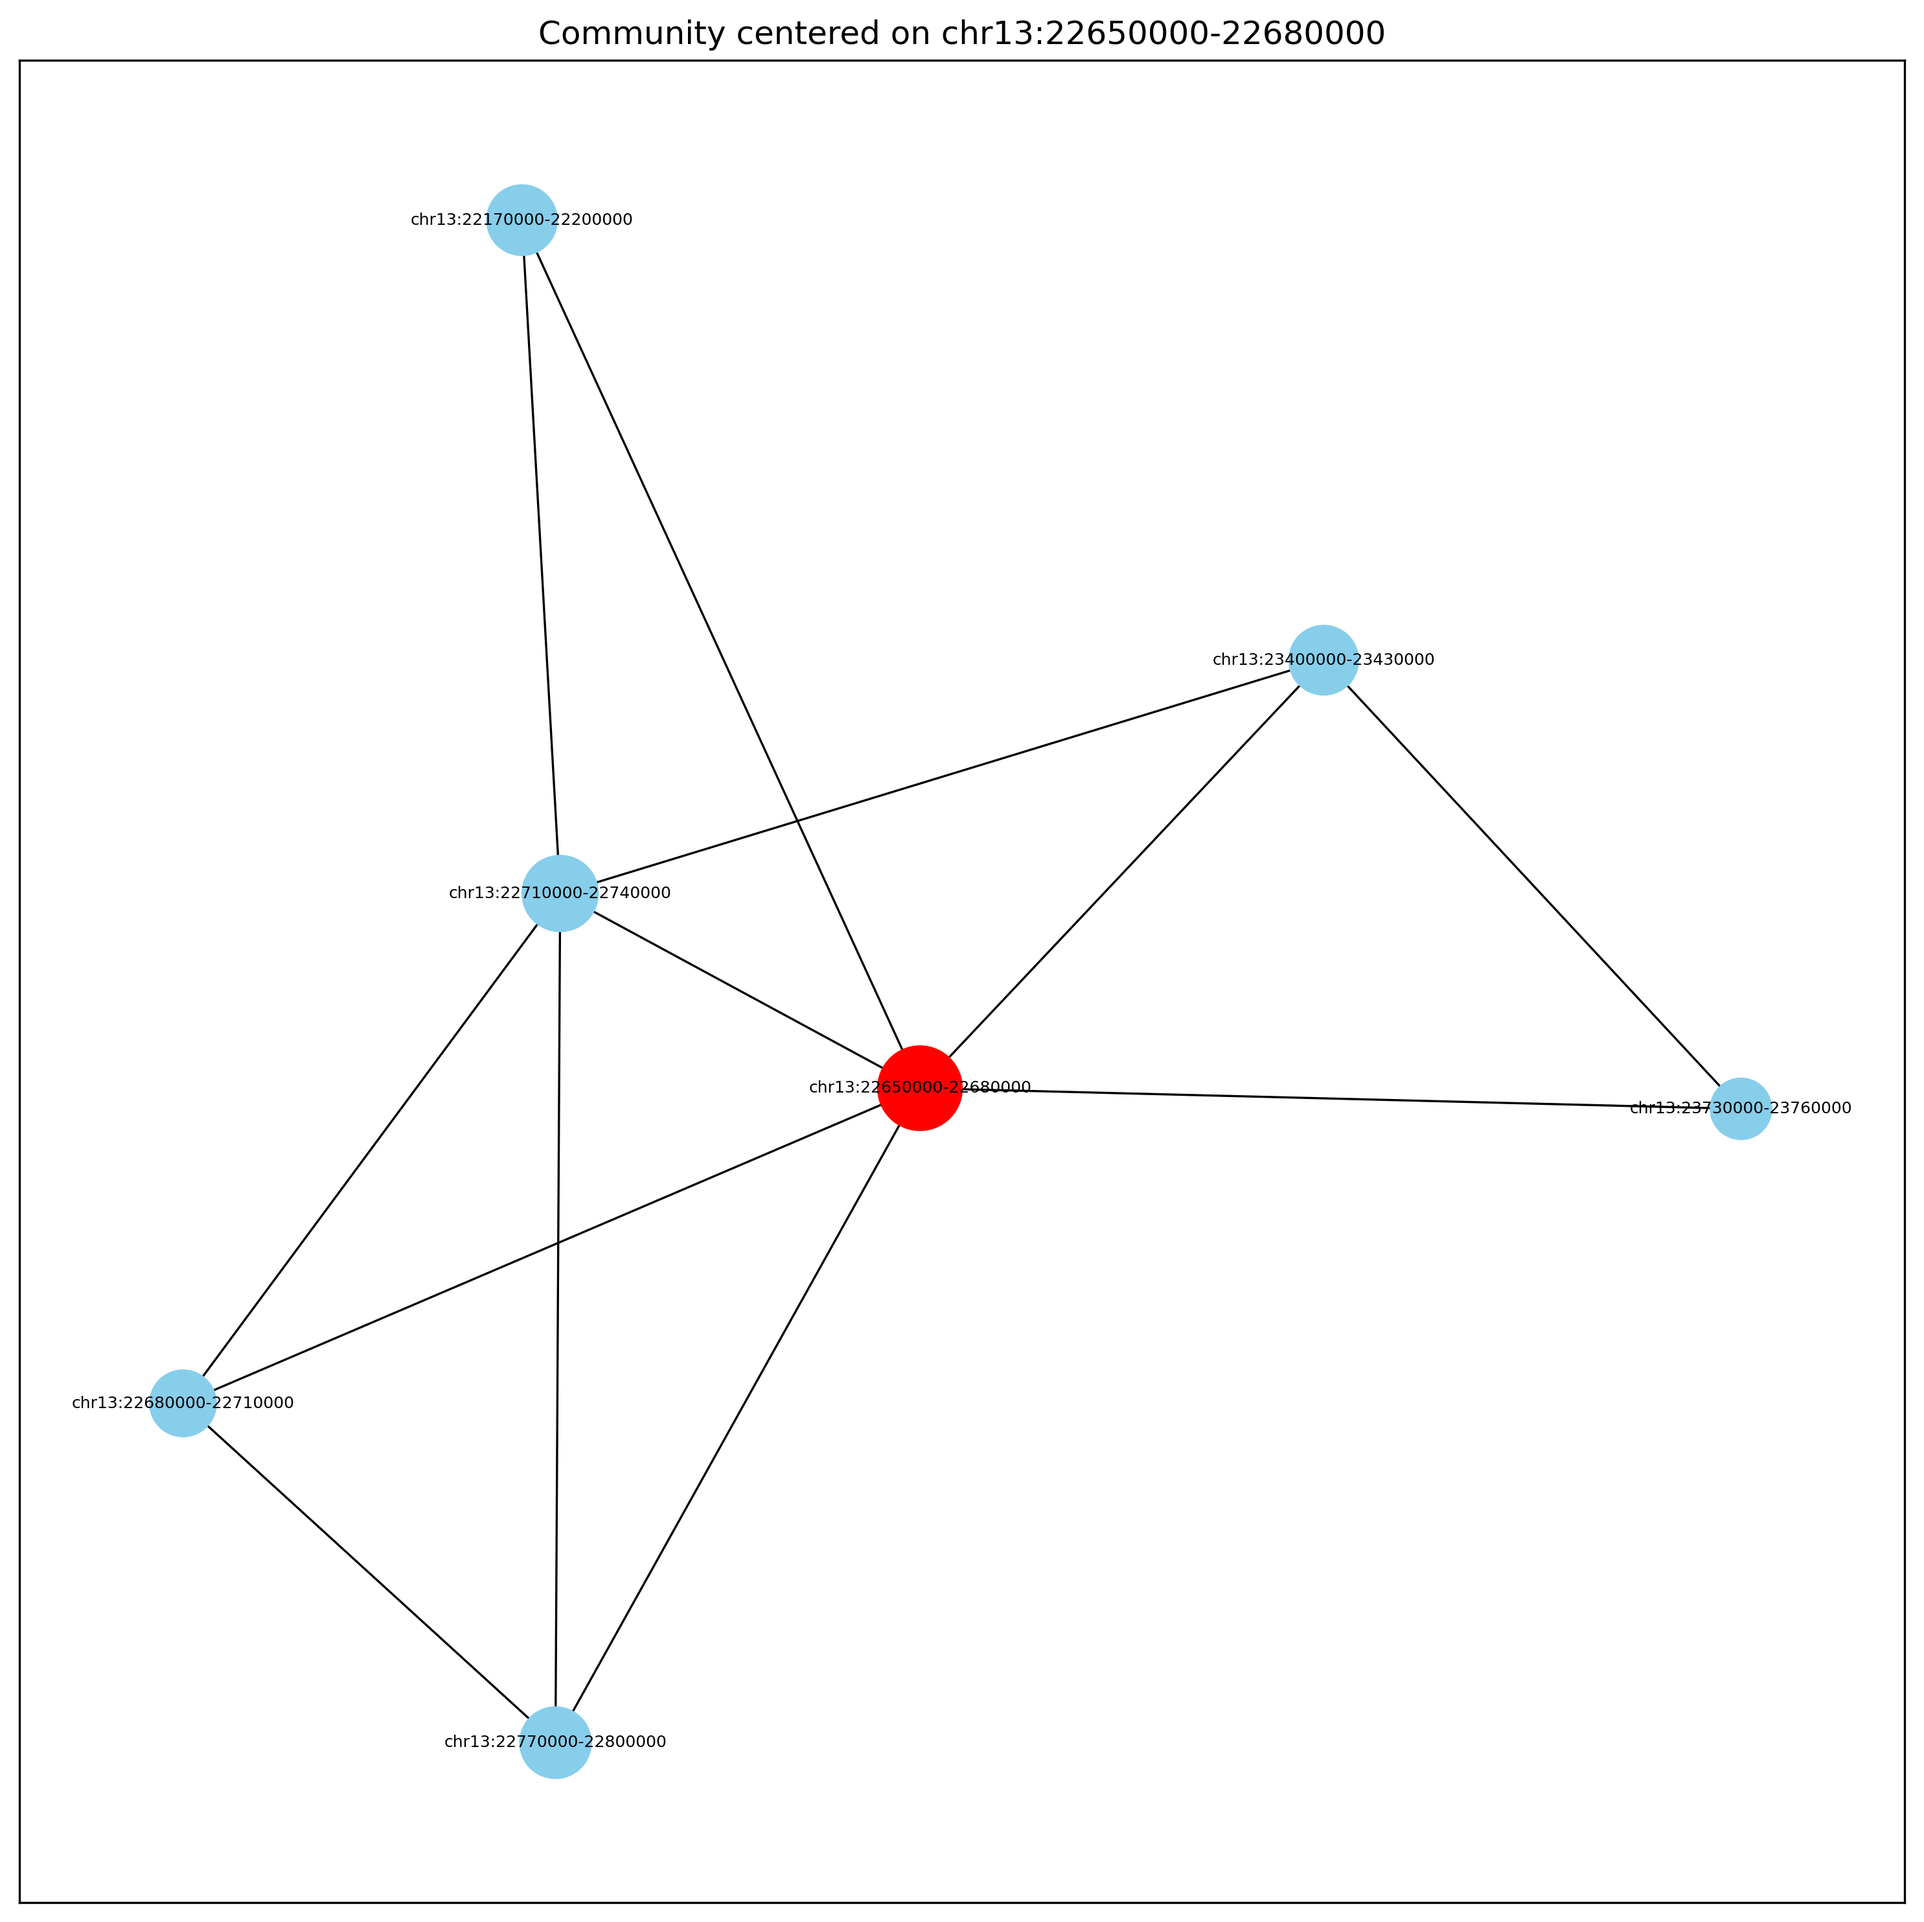
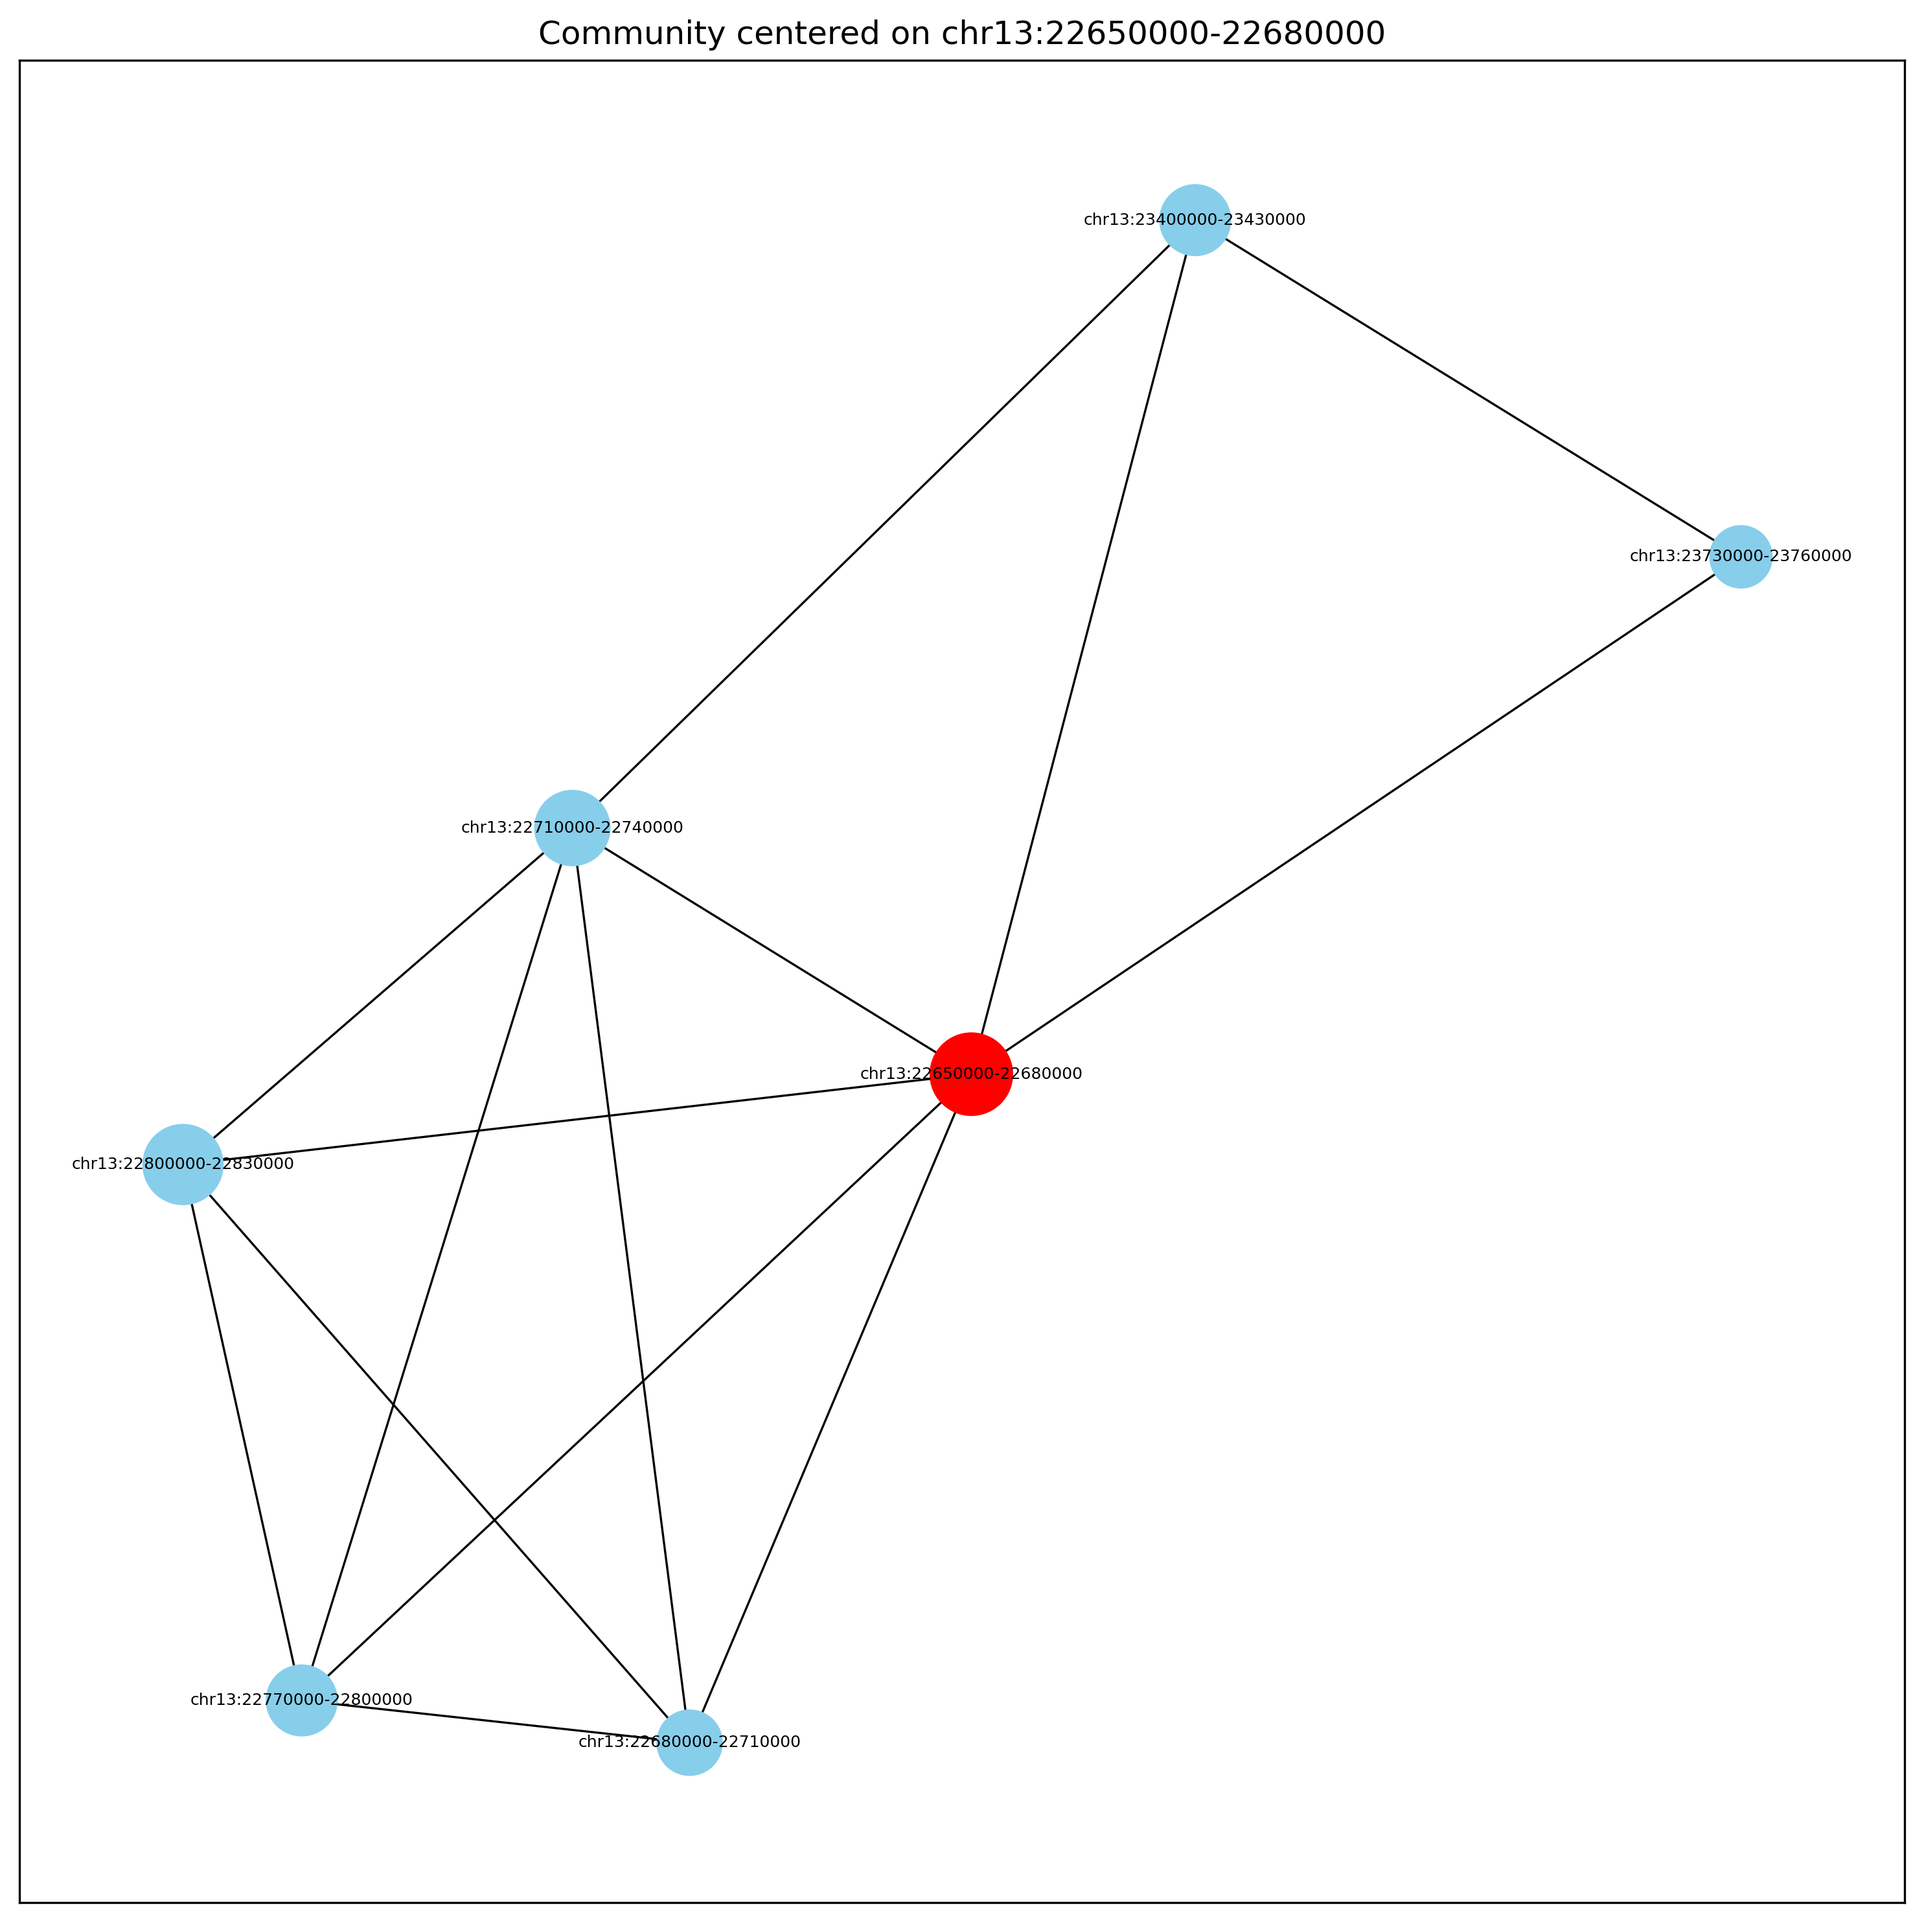
fin

diff --git a/activities/functions.py b/activities/functions.py
@@ -151,13 +151,13 @@ def sample_valid_centers(norm_dist_matrix: pd.DataFrame, k: int = 3, max_tries: 
 def load_and_filter(path):
     df = pd.read_csv(path, sep="\t")
 
-    # df = df[(df["chrom"] == "chr13") &
-    #         (df["start"] >= 21690000) &
-    #         (df["stop"] <= 24120000)].copy()
-    
     df = df[(df["chrom"] == "chr13") &
-            (df["start"] >= 21700000) &
-            (df["stop"] <= 24100000)].copy()
+            (df["start"] >= 21690000) &
+            (df["stop"] <= 24120000)].copy()
+    
+    # df = df[(df["chrom"] == "chr13") &
+    #         (df["start"] >= 21700000) &
+    #         (df["stop"] <= 24100000)].copy()
 
     # drops NP columns that have no windows present (all zeros)
     for col in df.columns[3:]:
@@ -614,13 +614,9 @@ def create_adj_matrix(df, Q3):
     
     return adj_matrix
 
-#explain in just a small sentence
-#returms a series of degree centrality values for each node in the graph, calculated as the number of connections divided by the maximum possible connections (n-1)
-#tldr: returns an array of degree centrality values for each node in the graph, where degree centrality is the number of connections a node has divided by the maximum possible connections (n-1)
-# def degree_centrality(adj_matrix):
-#     n = len(adj_matrix)
-#     return (adj_matrix.sum(axis=1) / (n - 1)).sort_values() #
 
+#calculates the degree centrality for each node in the adjacency matrix (the fraction of other nodes it is connected to)
+#returns a series of the degree centrality values for each node, sorted in ascending order, with the node names as the index
 def degree_centrality(adj_matrix):
     n = len(adj_matrix)
     centrality = []
@@ -629,7 +625,7 @@ def degree_centrality(adj_matrix):
         degree = adj_matrix.iloc[i].sum() / (n - 1)
         centrality.append(degree)
 
-    return pd.Series(centrality, index=adj_matrix.index).sort_values()
+    return pd.Series(centrality, index=adj_matrix.index).sort_values() 
 
 
 
@@ -664,24 +660,26 @@ def network_graph(adj_matrix, out_path):
 
 
 
-############## --- community detection functions --- ###############
-
-# def single_degree_centrality(adj_matrix, node):
-    
+############## --- community detection functions --- ###############    
 
 #grabs the top five nodes with the highest degree centrality values and returns them as a series with the node names as the index and the degree centrality values
 def top_five_degree_centrality(dc):
-    return dc.nlargest(5)
+    return dc.nlargest(5) 
 
 #clusters all nodes into one of the five clusters with the highest degree centrality
 def cluster_by_top_degree_centrality(adj_matrix, linkage_matrix, top_nodes):
-    clusters = {node: [] for node in top_nodes} #initializes a dictionary with the top nodes as keys and empty lists as values to store the clusters
+    
+    #initalizes a dict to store clusters, keys are the top nodes and values stored in lists. A : {B,C}
+    clusters = {}
+    for node in top_nodes:
+        clusters[node] = [] 
+
 
     for node in adj_matrix.index:
         if node in top_nodes: #matches the top nodes to their own cluster
             clusters[node].append(node)
         else:
-            max_link_strength = -1 #starts with a max centrality of -1 to ensure any real centrality will be higher
+            max_link_strength = -1 #initializes the max link strength to a very low value so that any connection will be stronger
             assigned_cluster = None
 
             for top_node in top_nodes:
@@ -708,14 +706,21 @@ def print_community_information(clusters, feat):
         hist1_count = 0
         lad_count = 0
 
+        #gets the Hist1 and LAD counts for the community
         for node in cluster_nodes:
-            if feat.loc[feat["name"] == node, "Hist1"].values[0] == 1:
+            if feat.loc[feat["name"] == node, "Hist1"].values[0] == 1: #if the node has a hist1 gene, increment the hist1 count for the community
                 hist1_count += 1
-            if feat.loc[feat["name"] == node, "LAD"].values[0] == 1:
+            if feat.loc[feat["name"] == node, "LAD"].values[0] == 1: #if the node has a LAD, increment the LAD count for the community
                 lad_count += 1
 
-        hist1_pct = (hist1_count / size) * 100 if size > 0 else 0
-        lad_pct = (lad_count / size) * 100 if size > 0 else 0
+        if size > 0:
+            hist1_pct = (hist1_count / size) * 100
+        else:
+            hist1_pct = 0
+        if size > 0:
+            lad_pct = (lad_count / size) * 100
+        else:
+            lad_pct = 0
 
         print(f"Community centered on {top_node}:")
         print(f"Size: {size}")
@@ -731,23 +736,25 @@ def community_visualization(clusters, adj_matrix, dc, out_dir="../visualizations
 
     os.makedirs(out_dir, exist_ok=True)
 
-    # normalize sizes for visualization
+    #normalize sizes for visualization
     min_dc = dc.min()
     max_dc = dc.max()
 
-    for top_node, cluster_nodes in clusters.items():
+    #for each community, create a subgraph and visualize it
+    for top_node, cluster_nodes in clusters.items(): 
         G = nx.Graph()
 
-        # add nodes
+        #add nodes
         for node in cluster_nodes:
             G.add_node(node)
 
-        # add edges within community
+        #add edges within community
         for i in range(len(cluster_nodes)):
             for j in range(i + 1, len(cluster_nodes)):
                 node_a = cluster_nodes[i]
                 node_b = cluster_nodes[j]
 
+                #if there is an edge between the two nodes in the adjacency matrix, add it to the graph. Does not do nodes to themselves
                 if adj_matrix.loc[node_a, node_b] == 1:
                     G.add_edge(node_a, node_b)
 
@@ -757,12 +764,13 @@ def community_visualization(clusters, adj_matrix, dc, out_dir="../visualizations
         node_colors = []
         node_sizes = []
 
+        #scale node size based on degree centrality and color the top node red
         for node in G.nodes():
-            # scale size based on degree centrality
+            #scale size based on degree centrality
             if max_dc > min_dc:
                 size = 200 + 800 * (dc[node] - min_dc) / (max_dc - min_dc)
             else:
-                size = 300  # fallback if all same
+                size = 300  #fallback if all same
 
             node_sizes.append(size)
 
@@ -788,18 +796,46 @@ def community_visualization(clusters, adj_matrix, dc, out_dir="../visualizations
         plt.savefig(f"{out_dir}/community_{safe_name}.png", dpi=300, bbox_inches="tight")
         plt.close()
 
-def community_heatmap(clusters, linkage_matrix):
+def community_heatmaps(clusters, adj_matrix, out_dir="../visualizations"):
+    import os
+    import matplotlib.pyplot as plt
     import seaborn as sns
+    import pandas as pd
+
+    os.makedirs(out_dir, exist_ok=True)
 
     for top_node, cluster_nodes in clusters.items():
-        if len(cluster_nodes) > 1:
-            sub_matrix = linkage_matrix.loc[cluster_nodes, cluster_nodes]
-            plt.figure(figsize=(8, 6))
-            sns.heatmap(sub_matrix, cmap="plasma", square=True)
-            plt.title(f"Heatmap for Community Centered on {top_node}")
-            plt.tight_layout()
-            plt.savefig(f"../heatmaps/community_{top_node}_heatmap.png", dpi=300, bbox_inches="tight")
-            plt.close()
+        community_set = set(cluster_nodes)
+
+        # start with a full zero matrix, same size as original graph
+        subgraph_matrix = pd.DataFrame(
+            0,
+            index=adj_matrix.index,
+            columns=adj_matrix.columns
+        )
+
+        # copy over only edges where both nodes are in this community
+        for node_a in cluster_nodes:
+            for node_b in cluster_nodes:
+                subgraph_matrix.loc[node_a, node_b] = adj_matrix.loc[node_a, node_b]
+
+        plt.figure(figsize=(10, 8))
+        sns.heatmap(
+            subgraph_matrix,
+            cmap="binary",
+            vmin=0,
+            vmax=1,
+            xticklabels=False,
+            yticklabels=False,
+            cbar_kws={"label": "Edge Presence"}
+        )
+
+        plt.title(f"Community Heatmap centered on {top_node}")
+        plt.tight_layout()
+
+        safe_name = top_node.replace(":", "_").replace("-", "_")
+        plt.savefig(f"{out_dir}/community_heatmap_{safe_name}.png", dpi=300, bbox_inches="tight")
+        plt.close()
 
 
 

diff --git a/activities/rot_mains/comm_det.py b/activities/rot_mains/comm_det.py
@@ -5,32 +5,37 @@ from functions import *
 import numpy as np
 import pandas as pd
 
-
+#data paths 
 data_path = "../data/GSE64881_segmentation_at_30000bp.passqc.multibam.txt"
 feat_path = "../data/Hist1_region_features.csv"
+
+#data loading and preprocessing
 df, np_cols = load_and_filter(data_path)
 feat = load_features(feat_path) #loads the features for the nodes, which will be used to calculate the percentage of nodes in the community that contain a hist1 gene and the percentage of nodes in the community that contain a LAD
 norm_linkage_matrix = compute_normalized_linkage_matrix(df, np_cols) #computes norm link matrix
 
-#explain vals very briefly:
+
 #vals in an array of the upper triangle values of the normalized linkage matrix, sorted in ascending order
 vals = norm_linkage_matrix.values[np.triu_indices_from(norm_linkage_matrix.values,k=1)]
 vals.sort()
 Q3 = np.percentile(vals,75) #gets the value to seperate the 75th percentile
 
+#creeates adj matrix by setting all vals in the norm link matrix above the 75th percentile to 1 and below to 0
 adj_matrix = create_adj_matrix(norm_linkage_matrix, Q3)
 
 dc = degree_centrality(adj_matrix)
 top_five_dc = top_five_degree_centrality(dc) #gets the top 5 nodes with highest degree centrality, with their names and values
-# print("Top 5 nodes with highest degree centrality:")
-# print(top_five_dc)
+
+
+print("Top 5 nodes with highest degree centrality:")
+print(top_five_dc)
 
 
 
 
 clusters = cluster_by_top_degree_centrality(adj_matrix, norm_linkage_matrix, top_five_dc.index)
+
 print_community_information(clusters, feat)
 
 community_visualization(clusters, adj_matrix, dc)
-community_heatmap(clusters, norm_linkage_matrix)
-
+community_heatmaps(clusters, adj_matrix)
